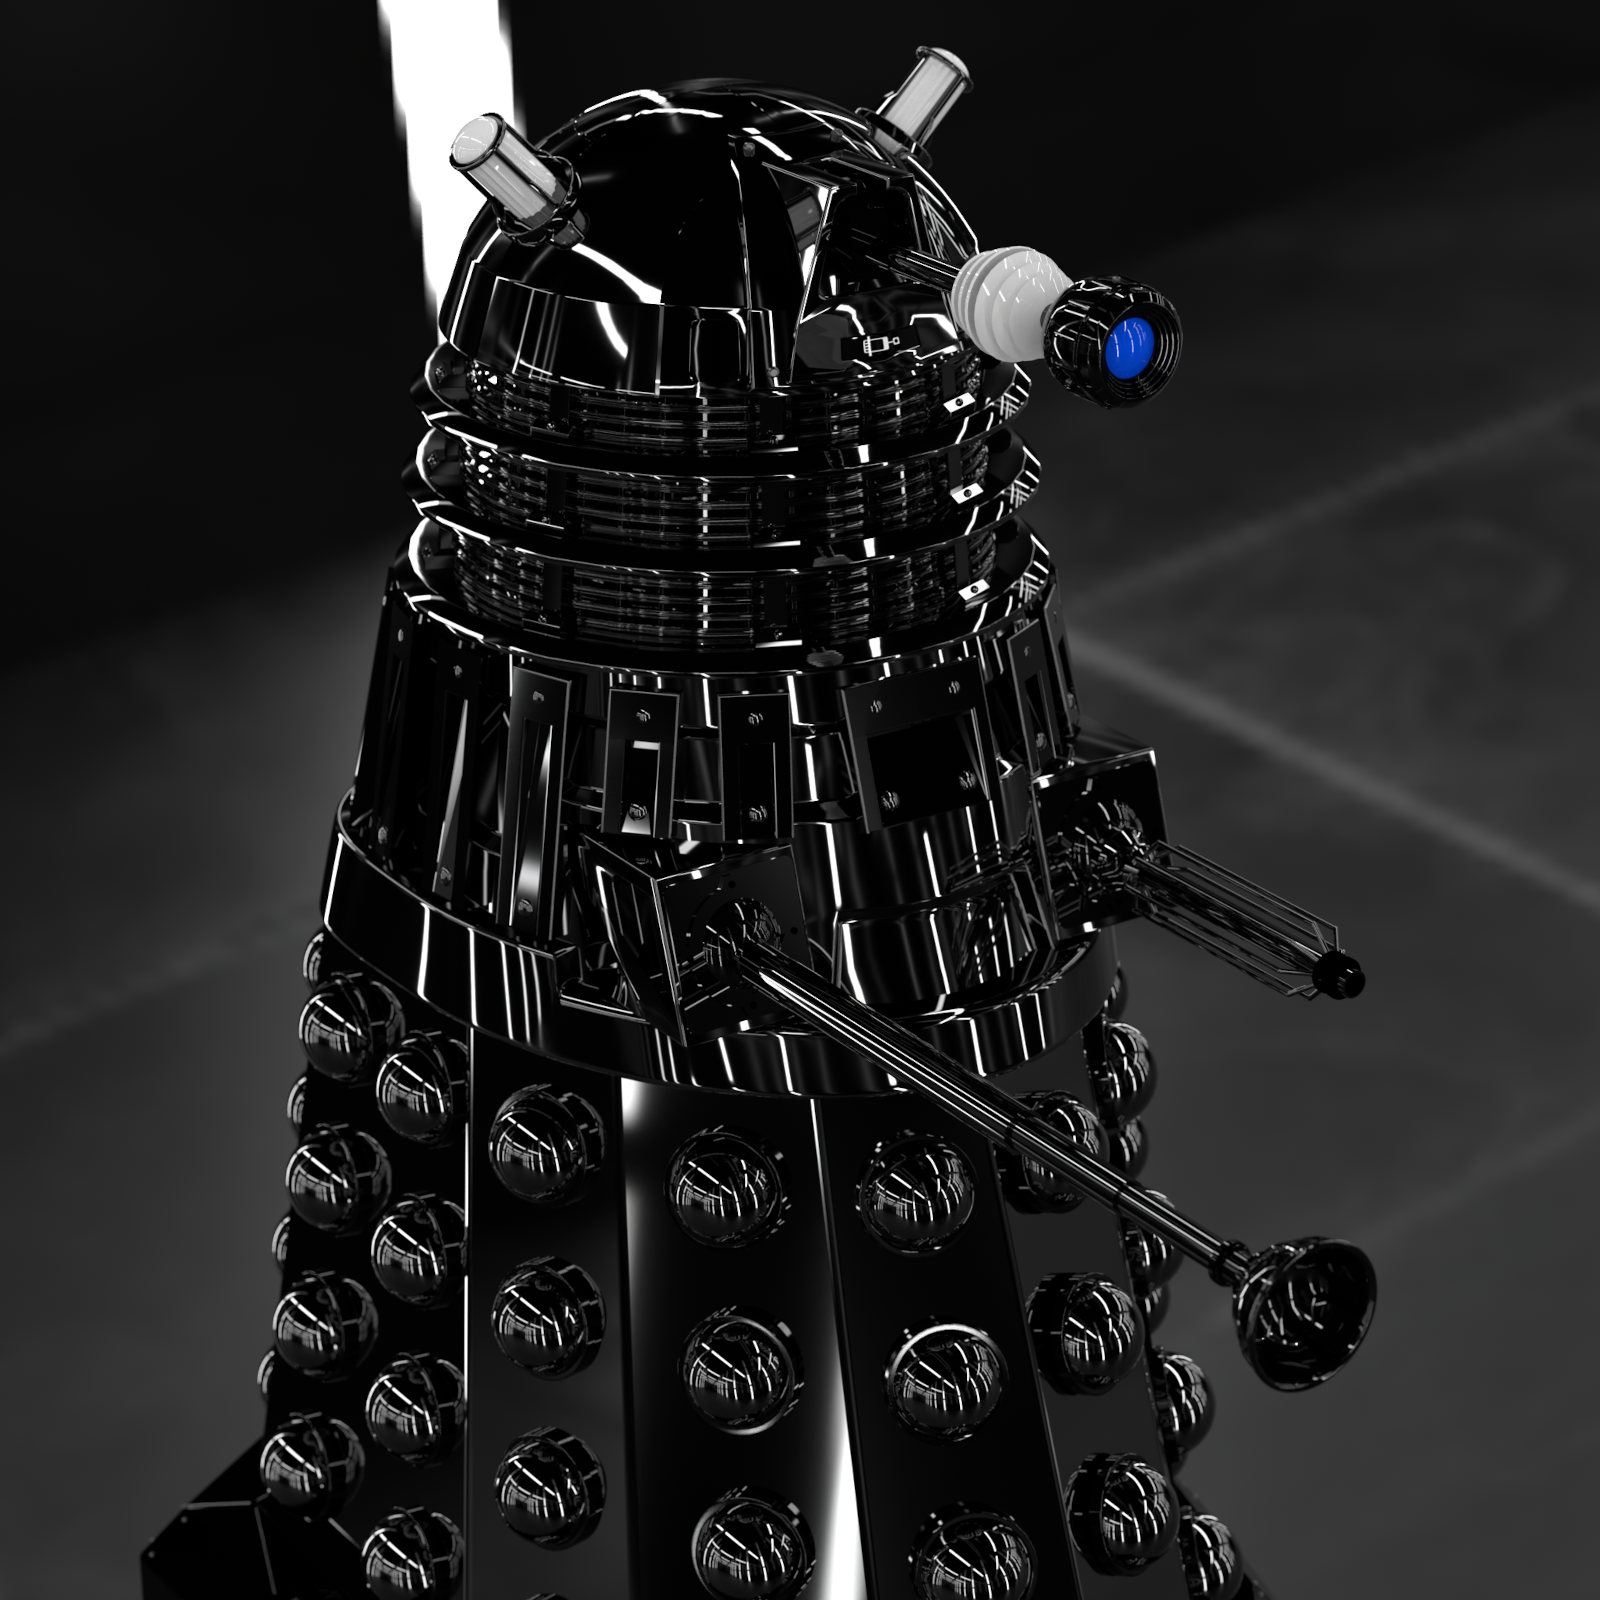
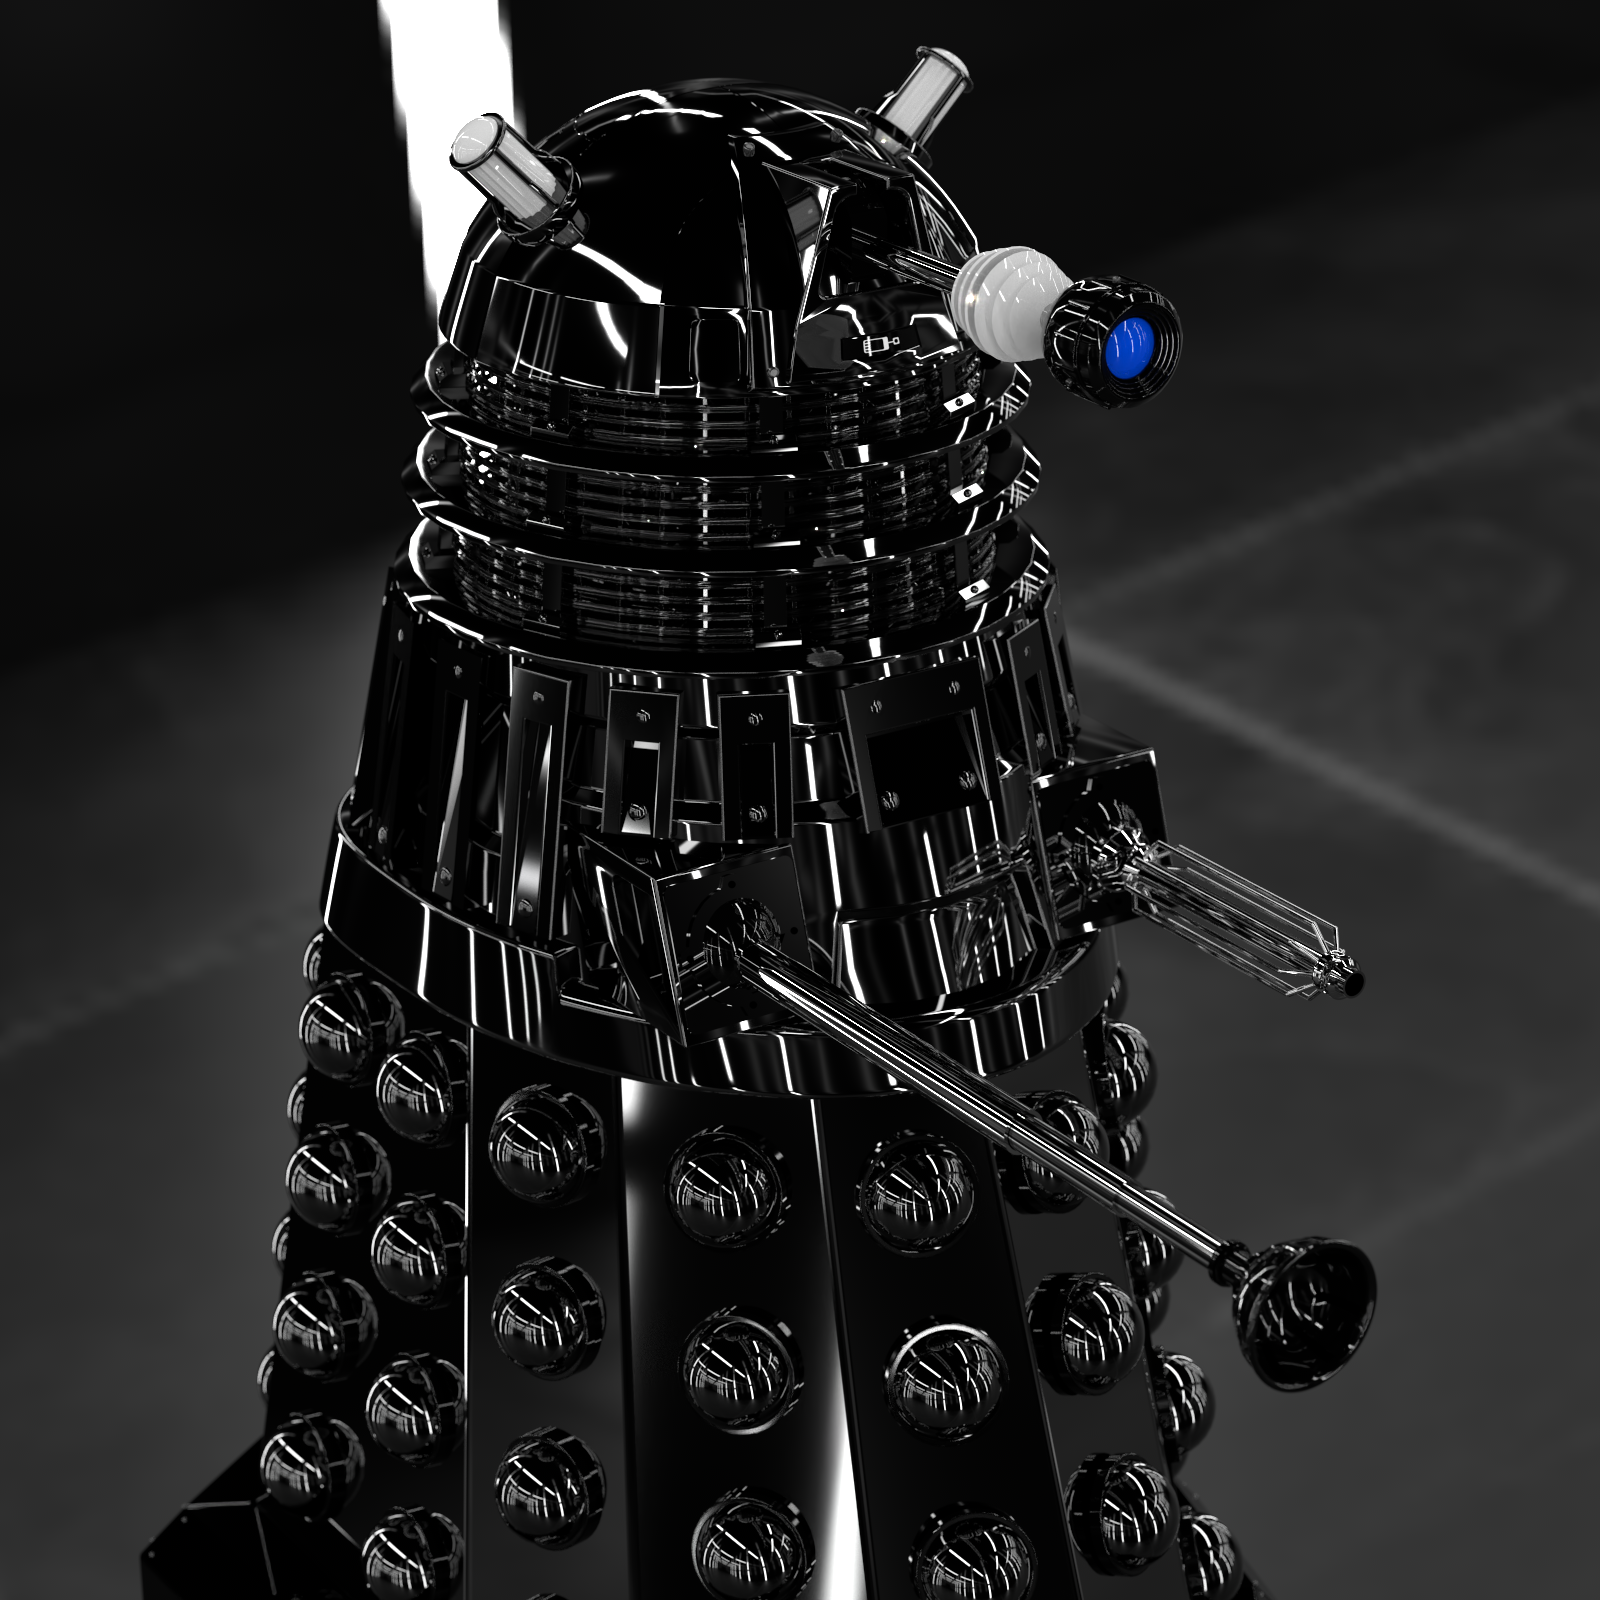
Update dalek mesh to use proper materials for arms

diff --git a/scenes/dalek.rs b/scenes/dalek.rs
@@ -17,7 +17,7 @@ pub fn dalek_scene(width: Option<usize>, height: Option<usize>) -> Scene {
     let origin = Vec3A::new(-2.0, 2.5, 3.0);
     let lookat = Vec3A::new(0.0, 1.0, 0.0);
     let view = Vec3A::new(0.0, 1.0, 0.0);
-    let (aspect_width, aspect_height) = (width.unwrap_or(2048) as f32, height.unwrap_or(2048) as f32);
+    let (aspect_width, aspect_height) = (width.unwrap_or(1600) as f32, height.unwrap_or(1600) as f32);
     let sensor_height = 56.0;
     let focal_length = 150.0;
     let world_scale = 0.001;
